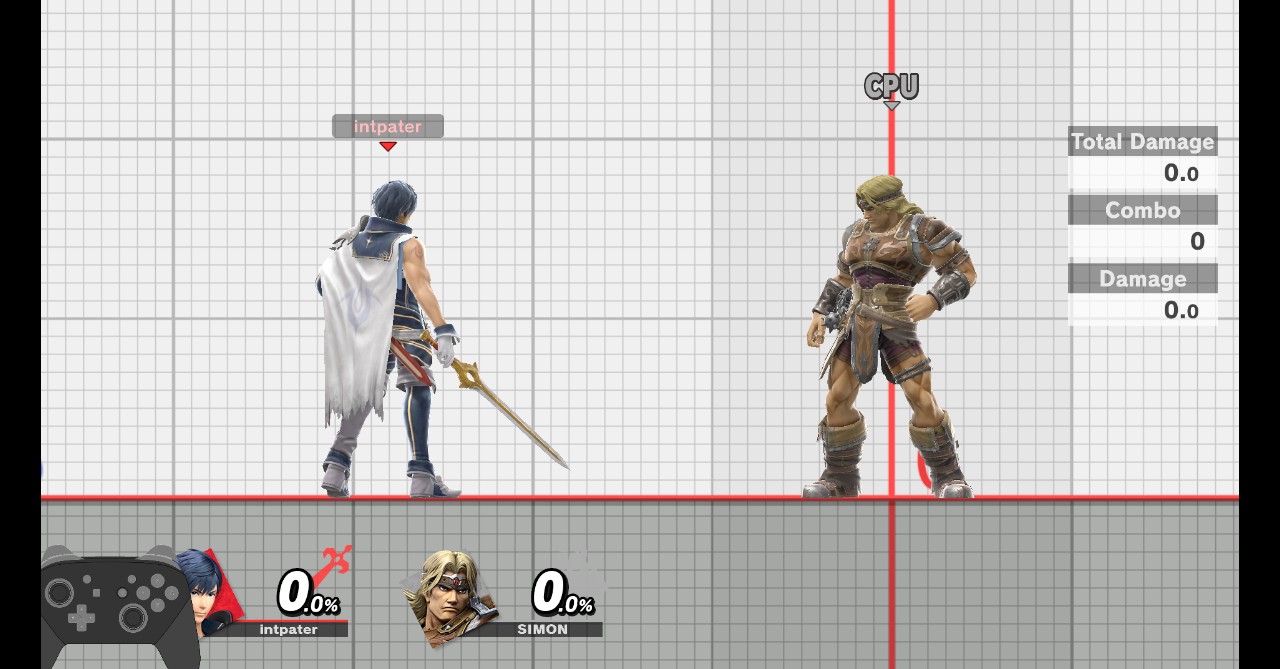
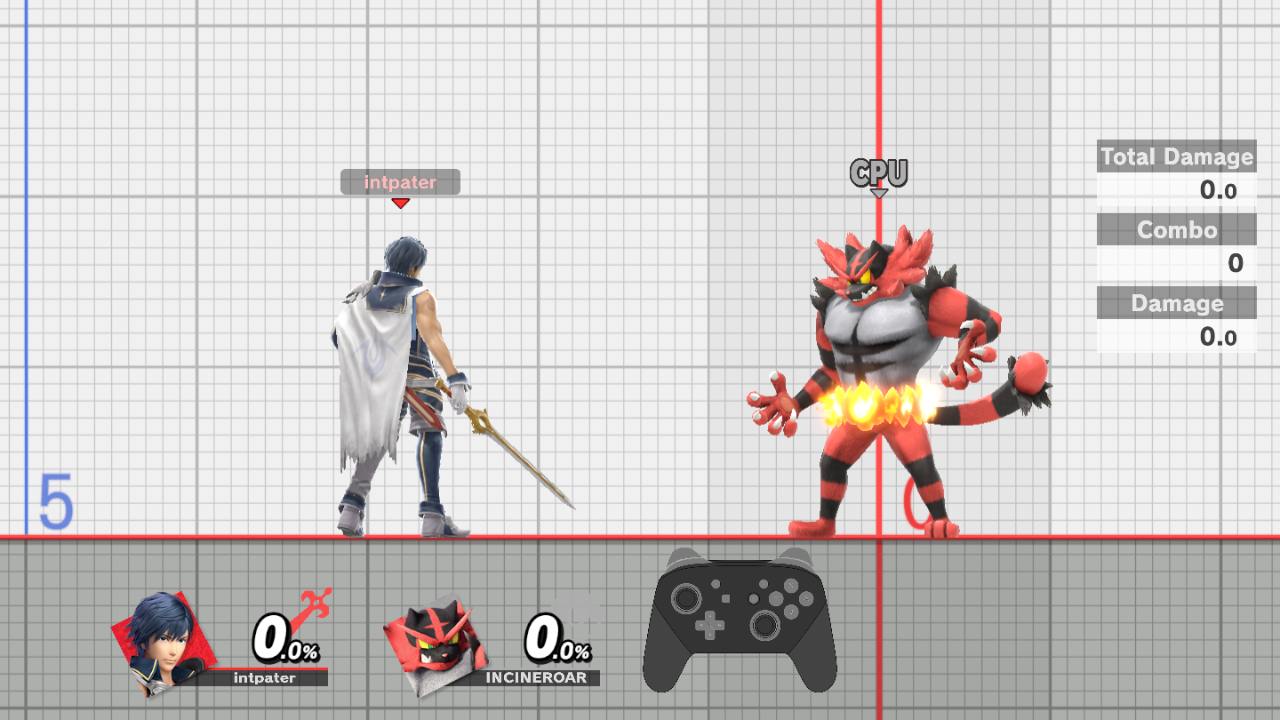
Docs: refresh the Training clip for the v0.1.3 placement
The Training GIF and still showed the pre-v0.1.3 far-left placement. Both are
re-recorded in Eden 9a5d704c9c with the v0.1.3 release NRO (build
c34-b42-b255549), the switch_pro_alt_builtin skin and the Training Modpack build
from the tested Switch, using Eden's recorder at the original settings (12 fps,
640 wide, 6 s, 73 frames) and the same stick/button pattern. The controller now
sits right of the CPU's HUD and every button and stick movement shows. That
Training Modpack build ran with libnro_hook and libparam_hook, as on the Switch;
the README notes it. The match clip is unchanged.

diff --git a/README.md b/README.md
@@ -12,21 +12,24 @@ panes that a patched `info_melee/layout.arc` adds to the match HUD.
 
 ![Overlay in Training](docs/media/gamepad-training.gif)
 
-*Training mode in Eden with Training Modpack loaded (2026-10-14): the controller at the bottom left follows P1's buttons and sticks.*
+*Training mode in Eden with v0.1.3 and Training Modpack loaded (2026-10-28): the controller sits to the right of the CPU's HUD and follows P1's buttons and sticks.*
 
 ![Overlay in a match](docs/media/gamepad-match.gif)
 
-*A 1v1 stock match against a CPU in Eden (2026-10-14), starting with a stock loss and respawn: the overlay sits near the bottom centre, beside P1's HUD.*
-
-These clips show the older placement. **v0.1.3** moves the Training and lobby
-practice overlay to the right of the CPU's bottom HUD; match placement is unchanged.
+*A 1v1 stock match against a CPU in Eden (2026-10-14), starting with a stock loss and respawn: the overlay sits near the bottom centre, beside P1's HUD. v0.1.3 left match placement unchanged.*
 
 Both clips were recorded in Eden build `9a5d704c9c` with Smash 13.0.5 and
-Training Modpack loaded. Cropped stills of the same scenes are in
-`docs/media/gamepad-training.png` and `docs/media/gamepad-match.png`. The clips
-use the optional `switch_pro_alt_builtin` skin generated from RetroSpy's
-`switch-pro-alt` art; a default install shows the simpler square-pane
-`default_simple` skin in the same place.
+Training Modpack loaded, using Eden's recorder at 12 fps and 640 pixels wide.
+The Training clip runs the v0.1.3 release with the Training Modpack build from
+the tested Switch. That build ran in Eden with `libnro_hook.nro` and
+`libparam_hook.nro` in the plugin folder, as on the Switch. Without
+`libparam_hook.nro` it crashed at startup.
+
+Cropped stills of the same scenes are in `docs/media/gamepad-training.png` and
+`docs/media/gamepad-match.png`. The clips use the optional
+`switch_pro_alt_builtin` skin generated from RetroSpy's `switch-pro-alt` art. A
+default install shows the simpler square-pane `default_simple` skin in the same
+place.
 
 ## Status
 
